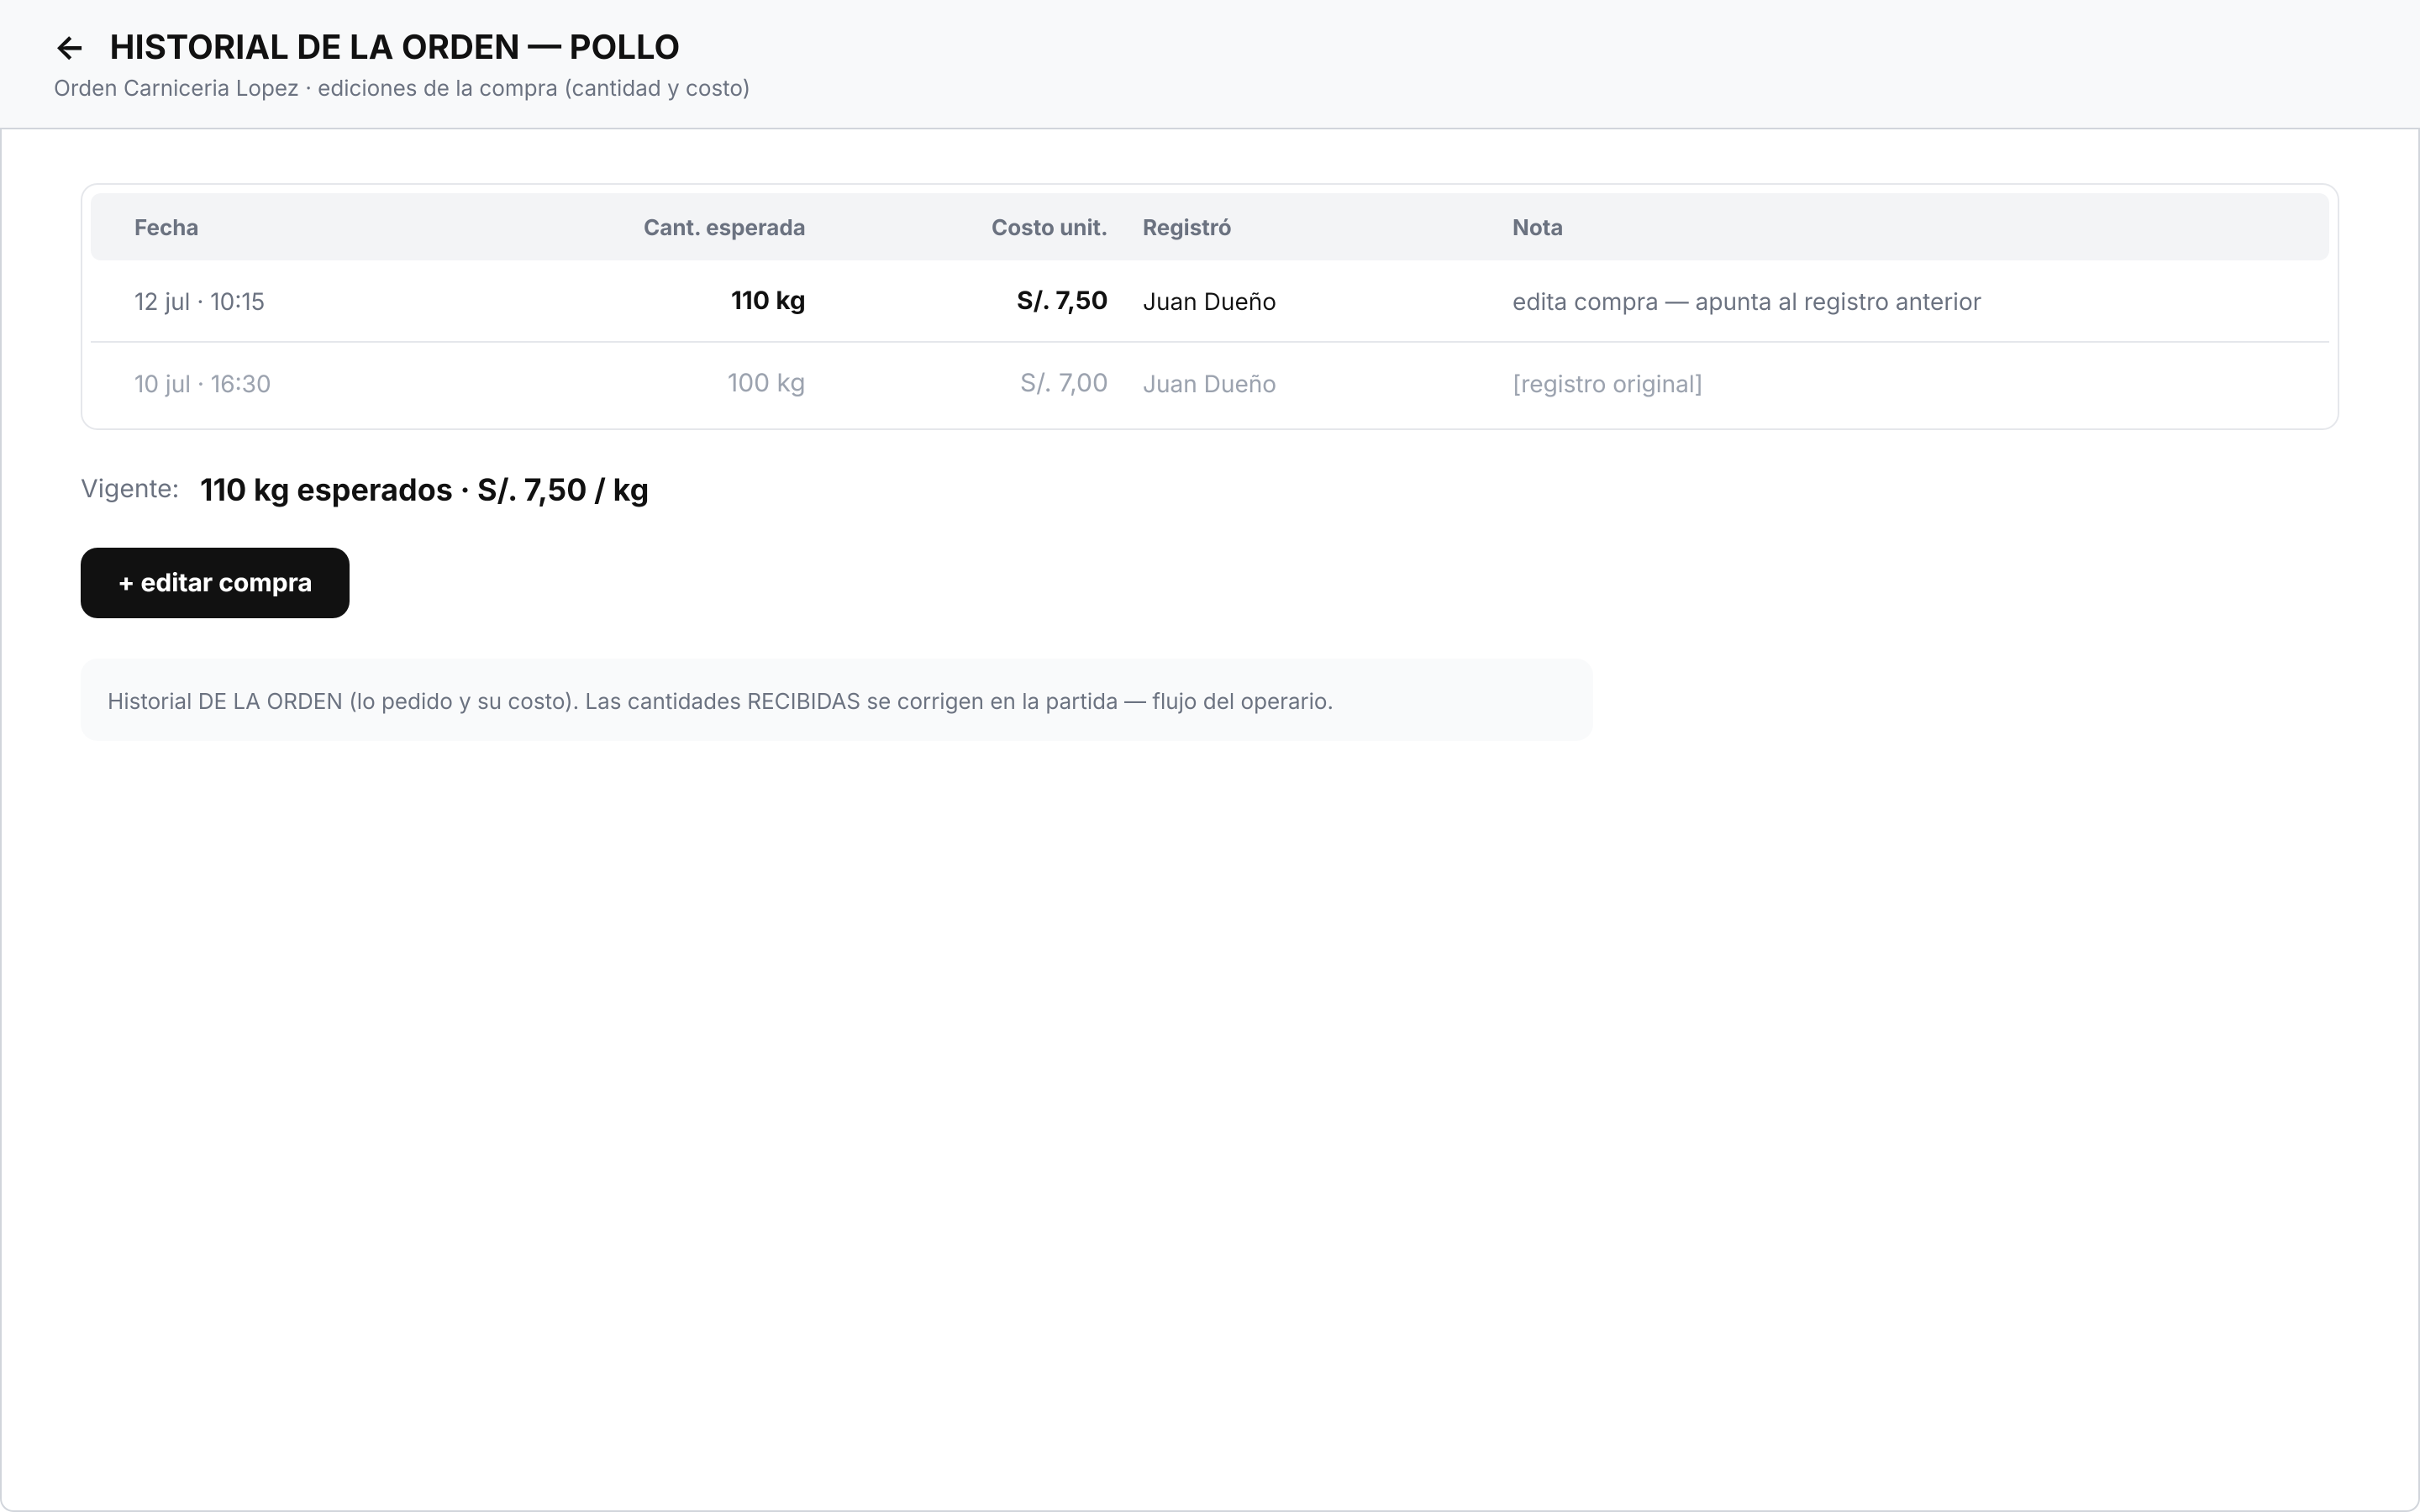
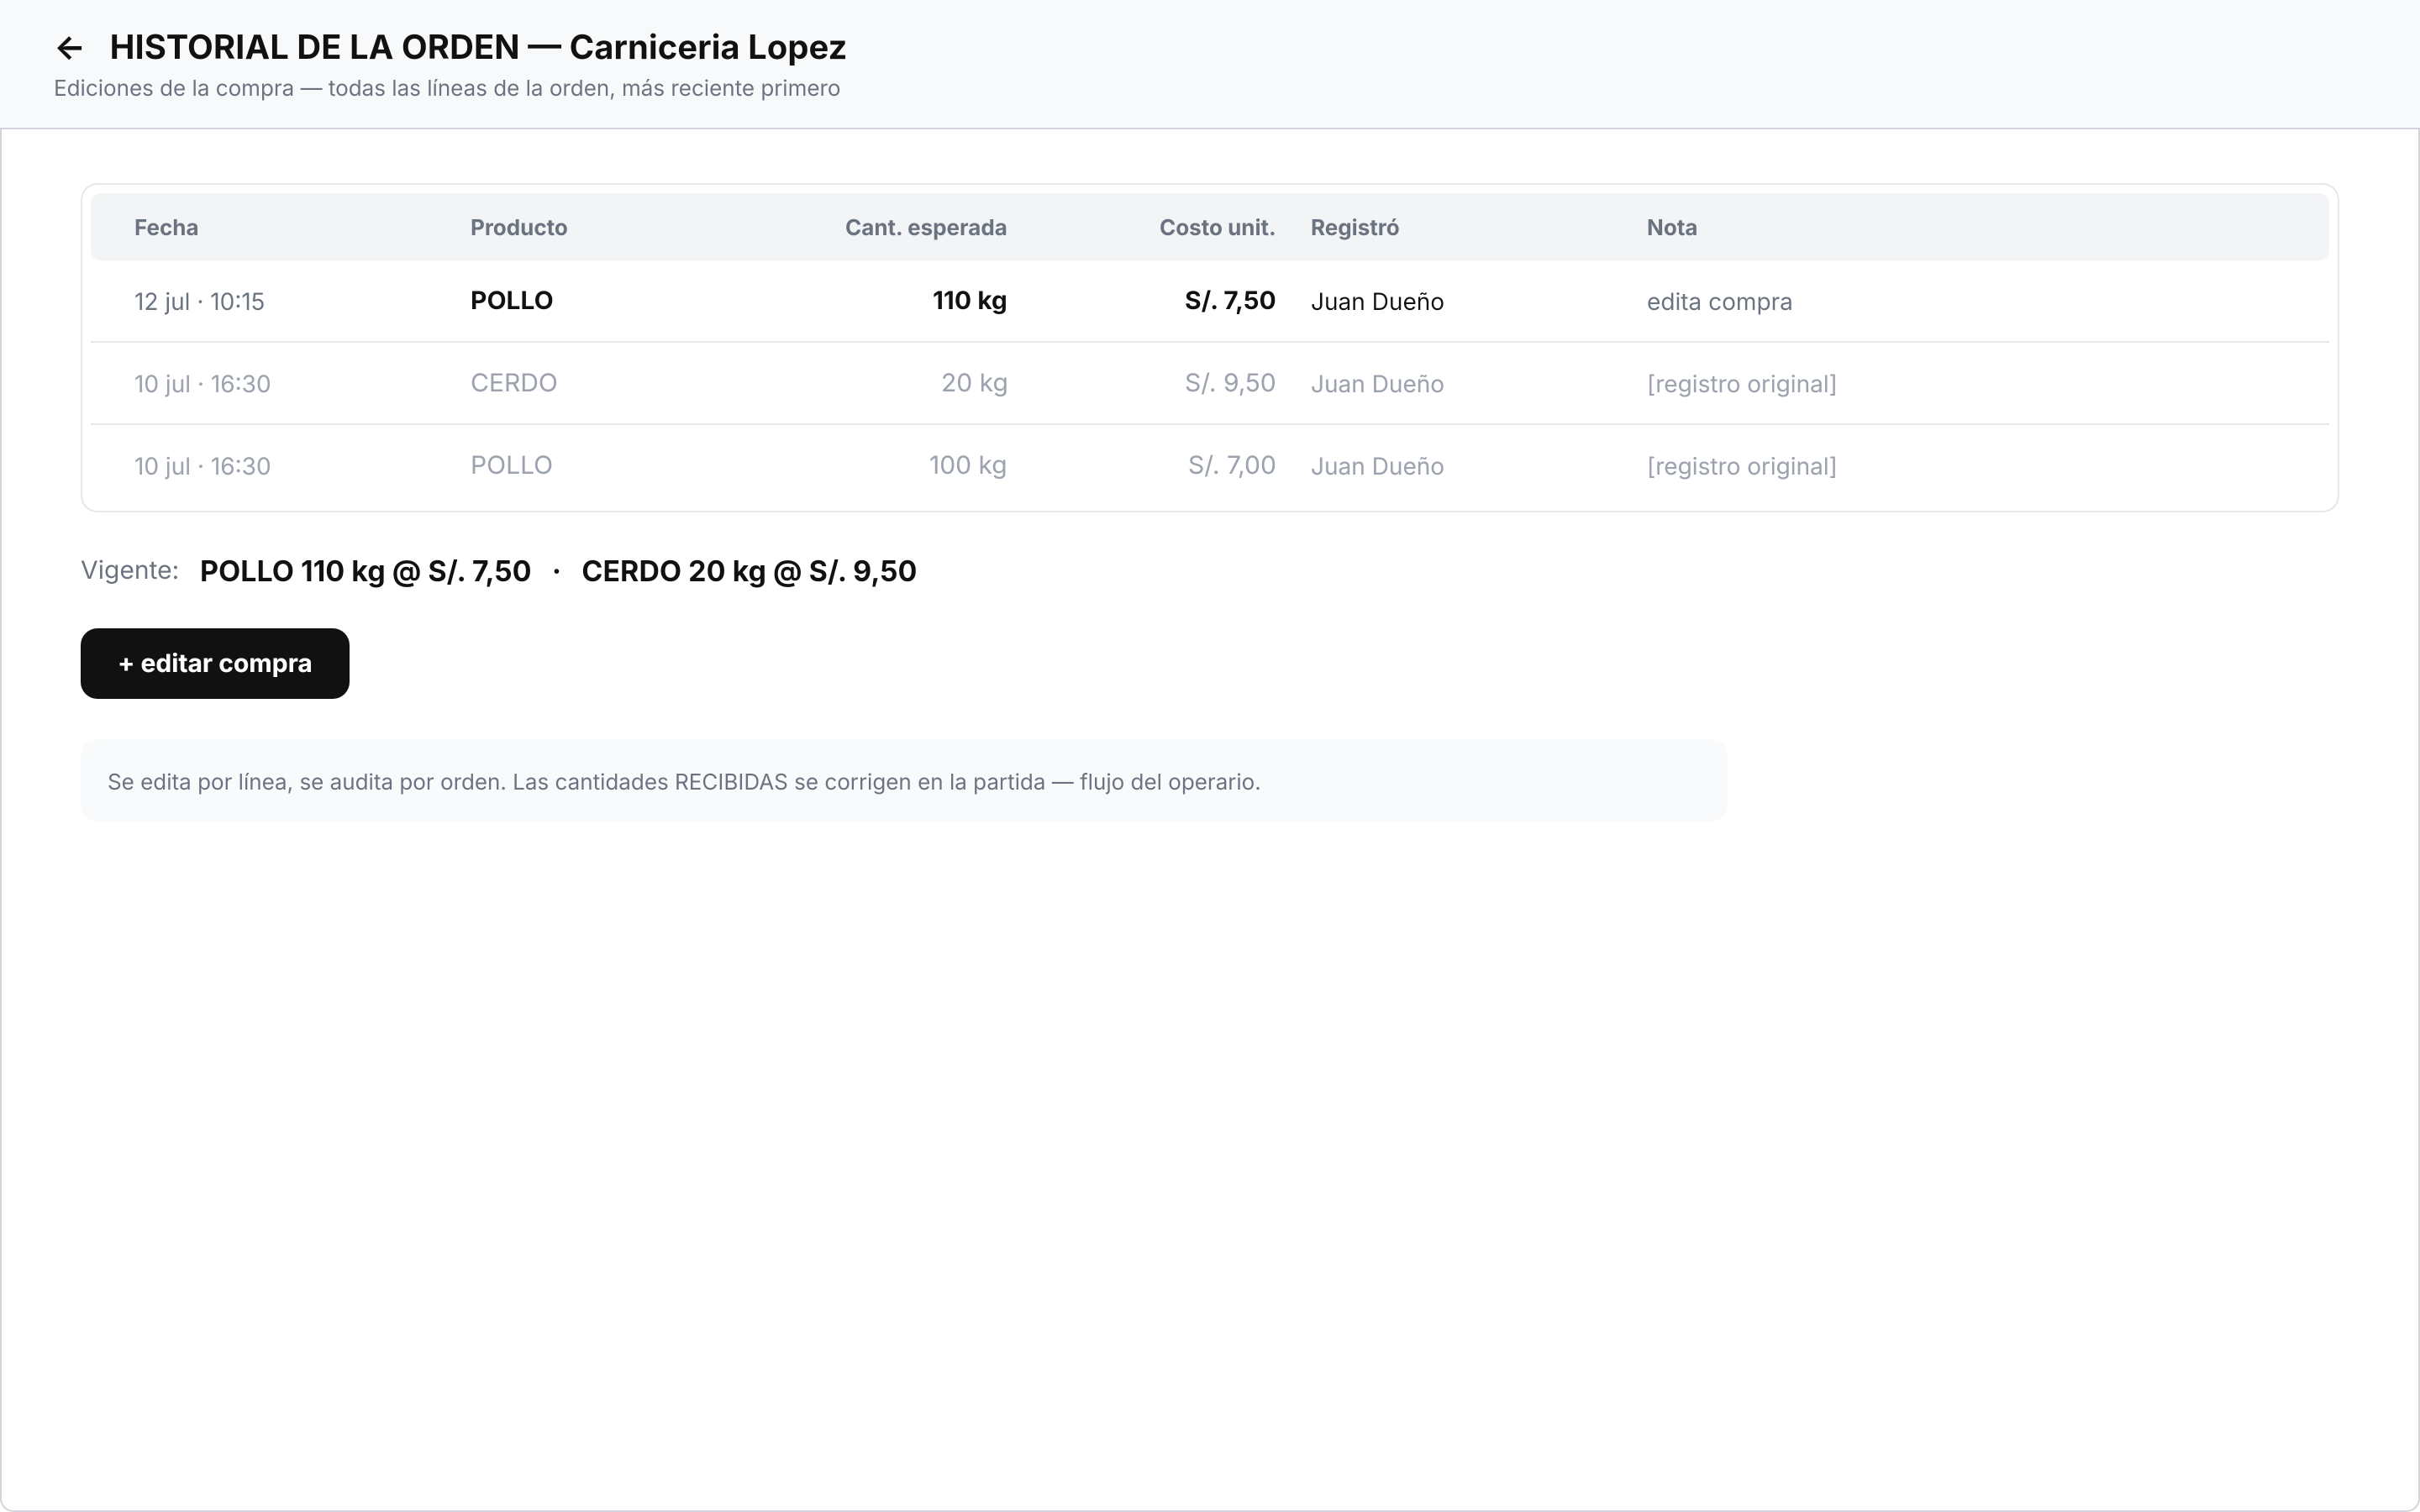
docs(ux): historial de la orden a nivel orden completa con columna producto (se edita por linea, se audita por orden)

diff --git a/docs/ux/orden-compra.md b/docs/ux/orden-compra.md
@@ -190,7 +190,7 @@ Vista completa: lo que se pidió, cada partida que llegó (con quién y cuándo 
 - El saldo pendiente por producto: cantidad pedida menos la suma de todas las partidas recibidas para ese producto.
 - "✓" en la columna "Saldo" indica que ese producto está completo.
 - "← " en la columna "Saldo" indica que todavía falta.
-- Si hay ediciones sobre una línea (cantidad esperada y/o costo), se muestra "ver historial de la orden" al lado de esa línea (ver Pantalla 6).
+- Si la orden tiene ediciones (cantidad esperada y/o costo de alguna línea), se muestra "ver historial de la orden", que abre el historial de la **orden completa** (ver Pantalla 6). La edición en sí es por línea: cada línea permite abrir el modal "editar compra".
 - Los totales en soles aparecen porque es vista del dueño.
 - El botón "reabrir" solo es visible si la orden está en estado **cerrada**. Si está abierta o recibida parcial, no aparece.
 - El botón "anular orden" siempre visible mientras la orden no esté ya anulada.
@@ -294,9 +294,11 @@ Al confirmar en cualquier caso:
 
 ---
 
-## Pantalla 6 — Historial de la orden (ediciones de una línea)
+## Pantalla 6 — Historial de la orden
 
-Accesible desde el detalle de la orden (Pantalla 3), al tocar "ver historial de la orden" junto a una línea. Muestra las **ediciones de la compra** sobre esa línea: cantidad esperada y costo unitario, no solo costo.
+Accesible desde el detalle de la orden (Pantalla 3), al tocar "ver historial de la orden". Muestra las **ediciones de la compra** de la orden completa: cantidad esperada y costo unitario, no solo costo.
+
+**Regla: se edita por línea, se audita por orden.** El modal de edición opera sobre UNA línea (un producto); este historial muestra TODAS las ediciones de TODAS las líneas de la orden, mezcladas y ordenadas por fecha descendente, con columna Producto para distinguirlas.
 
 **Este historial es DE LA ORDEN** — el lado "entrada de plata": qué se pidió y a qué precio, con sus ediciones append-only. No es un historial del producto (los movimientos del producto — partidas, pedidos, conteos — viven en la trazabilidad del tablero).
 
@@ -304,21 +306,26 @@ Pueden editar la compra el **dueño y el admin** (revisión de roles del 13 jul 
 
 ```
 +------------------------------------------------------------------------------+
-|  <  HISTORIAL DE LA ORDEN — POLLO  (Orden Carniceria Lopez)                  |
+|  <  HISTORIAL DE LA ORDEN — Carniceria Lopez                                 |
 +------------------------------------------------------------------------------+
 |                                                                              |
 |  +------------------------------------------------------------------------+  |
-|  | Fecha          Cant. esperada  Costo unit.  Registró     Nota          |  |
-|  |----------------|---------------|------------|-------------|-------------|  |
-|  | 12 jul · 10:15    110 kg        S/. 7,50    Juan Dueño   edita compra  |  |
-|  | 10 jul · 16:30    100 kg        S/. 7,00    Juan Dueño   [original]    |  |
+|  | Fecha          Producto  Cant. esp.  Costo unit.  Registró    Nota    |  |
+|  |----------------|---------|-----------|------------|------------|--------|  |
+|  | 12 jul · 10:15  POLLO      110 kg     S/. 7,50    Juan Dueño  edita   |  |
+|  |                                                                compra  |  |
+|  | 10 jul · 16:30  CERDO       20 kg     S/. 9,50    Juan Dueño  [orig.] |  |
+|  | 10 jul · 16:30  POLLO      100 kg     S/. 7,00    Juan Dueño  [orig.] |  |
 |  +------------------------------------------------------------------------+  |
 |                                                                              |
-|  Vigente: 110 kg esperados · S/. 7,50 / kg                                   |
+|  Vigente: POLLO 110 kg @ S/. 7,50 · CERDO 20 kg @ S/. 9,50                   |
 |                                                                              |
 |  [ + editar compra ]                                                         |
 +------------------------------------------------------------------------------+
 ```
+
+- Cada fila es un registro append-only de una línea: el original ([registro original]) o una edición que apunta al anterior de la misma línea.
+- **"+ editar compra"** abre el modal para la línea que el dueño elija. También se llega directo desde la línea en el detalle de la orden (Pantalla 3).
 
 Al tocar "editar compra":
 